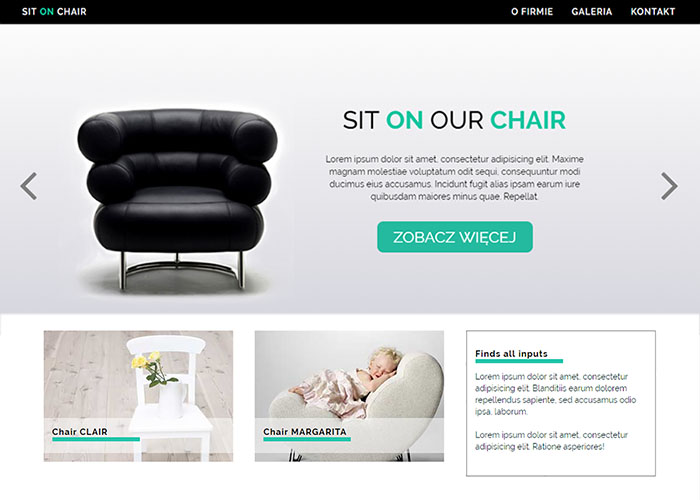
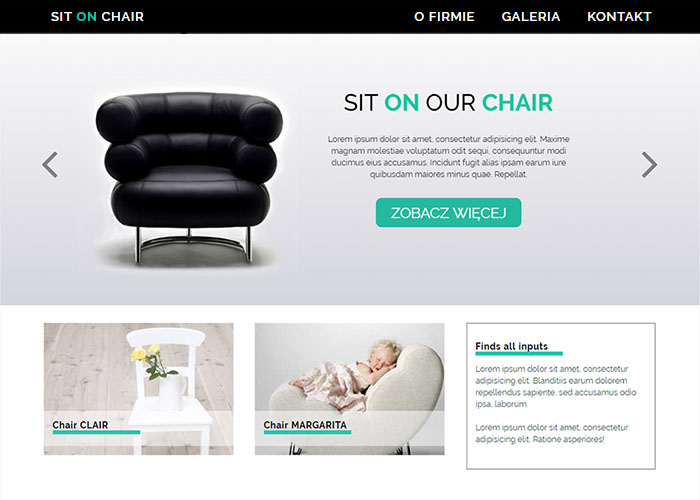
mobile_fix_&_sit_On_chair_jpg

diff --git a/js/main.js b/js/main.js
@@ -8,7 +8,7 @@ $(document).ready(function () {
         smoothScroll();
         initMap();
         mapClick();
-        fixedOff();
+//        fixedOff();
         hover();
         topFunction();
         touchSwipe();
@@ -192,12 +192,12 @@ function mapClick(){
 
 
 /* Changing "background-attachement" form "fixed" to "scroll" on iPhone etc.*/
-function fixedOff() {
-    if (/iphone|ipod|ipad|blackberry/i.test(navigator.userAgent)) {
-        console.log('apple');
-        $('.carousel-item').css("background-attachment", "scroll");
-    }
-}
+//function fixedOff() {
+//    if (/iphone|ipod|ipad|blackberry/i.test(navigator.userAgent)) {
+//        console.log('apple');
+//        $('.carousel-item').css("background-attachment", "scroll");
+//    }
+//}
 
 
 /* Fix :hover for touchscreen */

diff --git a/index.html b/index.html
@@ -83,6 +83,15 @@
             </div>
         </div>
     </header>
+    <!--  Changing on mobile "background-attachement" form "fixed" to "scroll" -->
+    <script>
+        if (/iphone|ipod|ipad|blackberry|webOS|IEMobile/i.test(navigator.userAgent)){
+            var carouselItems = document.querySelectorAll('.carousel-item');
+            for (var i=0; i<carouselItems.length; i++ ){
+                carouselItems[i].style.backgroundAttachment = "scroll";
+            } 
+        }
+    </script>
     <!-- Main header - End -->
     
     <!-- Navigation Menu - Start -->       
